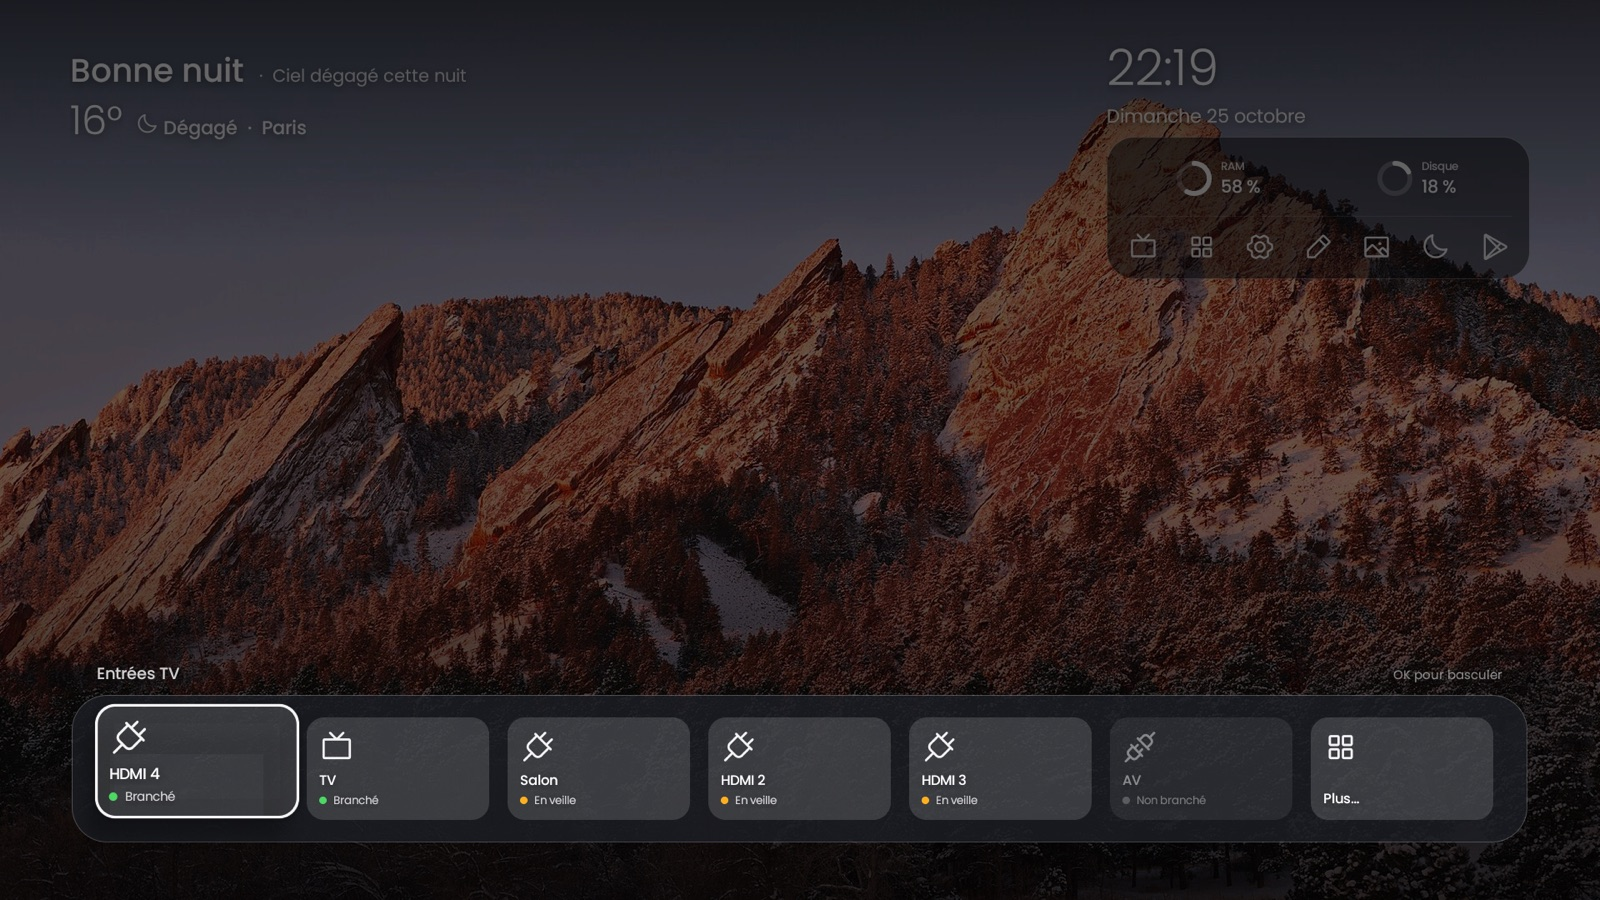
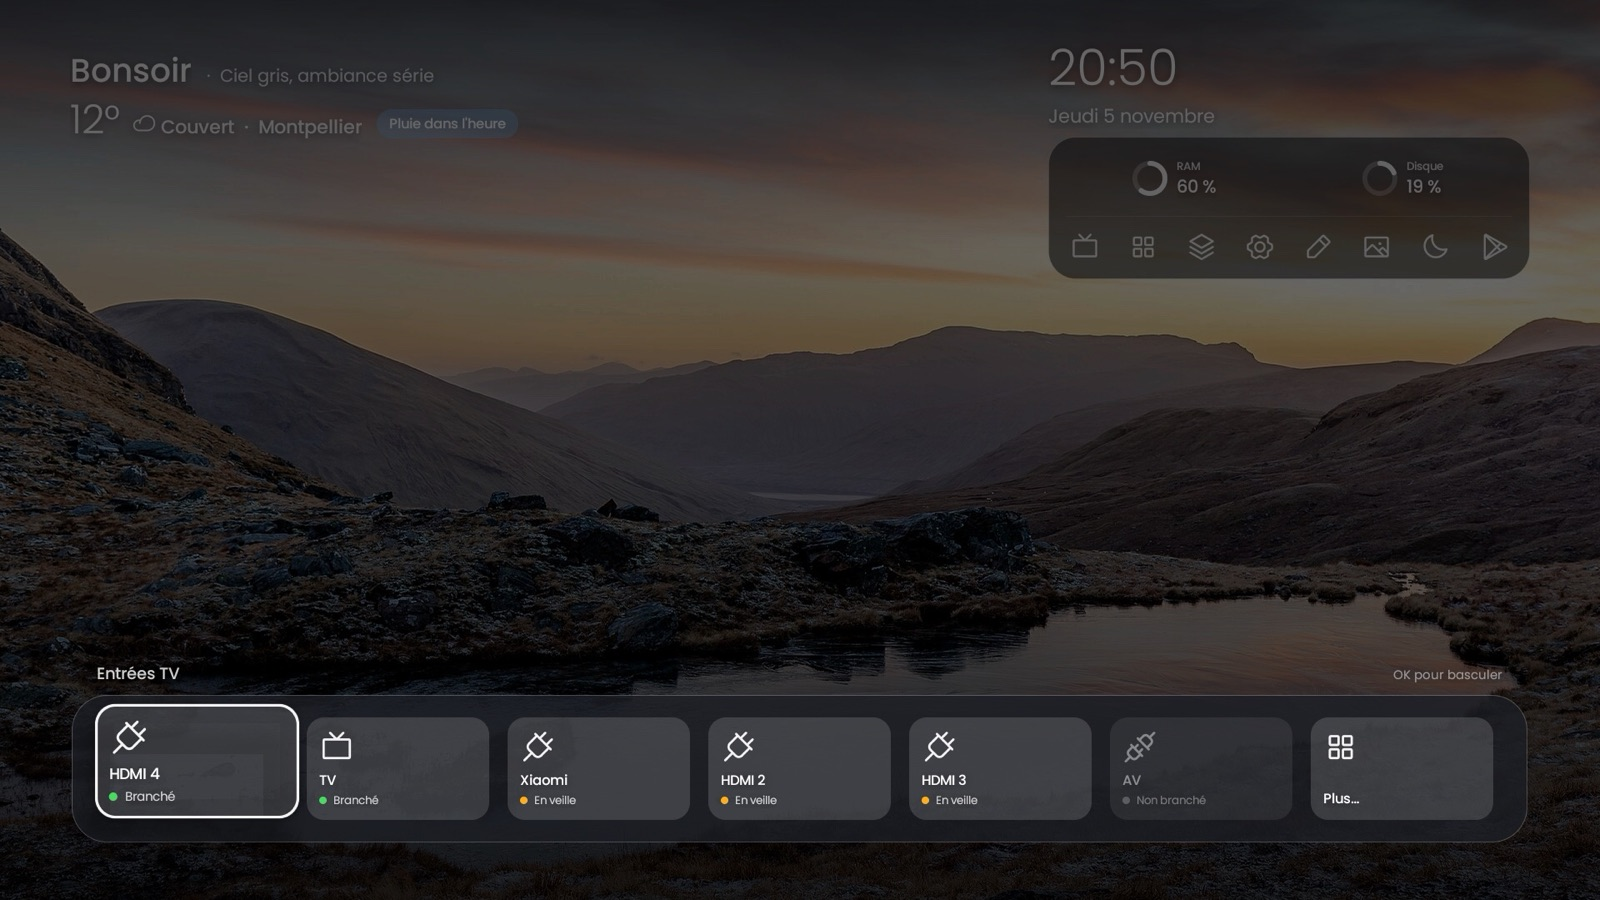
docs: galerie de captures commentées sur la page et le README

diff --git a/docs/index.html b/docs/index.html
@@ -54,8 +54,17 @@
   .etapes li::before { content: counter(e); position: absolute; left: 0; top: 0; width: 30px; height: 30px; border-radius: 50%;
     display: grid; place-items: center; background: var(--accent); color: #14202c; font-size: 14px; font-weight: 500; }
   .note { margin-top: 18px; padding: 14px 18px; border-radius: 16px; background: rgba(255, 207, 142, .12); border: 1px solid rgba(255, 207, 142, .35); font-size: 15px; color: var(--texte-doux); }
+  .intro-galerie { margin: -6px 0 18px; color: var(--texte-doux); font-size: 15px; }
+  figure { margin: 0; }
+  figure img { display: block; width: 100%; height: auto; border-radius: 16px; border: 1px solid rgba(255, 255, 255, .14); box-shadow: 0 16px 40px -18px rgba(0, 0, 0, .7); }
+  figure a { display: block; border-radius: 16px; }
+  figure a:focus-visible { outline: 3px solid var(--accent); outline-offset: 4px; }
+  figcaption { margin-top: 10px; font-size: 15px; color: var(--texte-doux); }
+  figcaption b { color: var(--texte); font-weight: 500; }
+  .vedette { margin-bottom: 22px; }
+  .galerie { display: grid; grid-template-columns: repeat(2, 1fr); gap: 22px 18px; }
   footer { position: relative; z-index: 1; text-align: center; font-size: 13px; color: var(--texte-doux); padding: 0 16px 28px; }
-  @media (max-width: 720px) { .grille { grid-template-columns: 1fr; } main { padding-top: 28px; } .entete img { width: 56px; height: 56px; } }
+  @media (max-width: 720px) { .grille, .galerie { grid-template-columns: 1fr; } main { padding-top: 28px; } .entete img { width: 56px; height: 56px; } }
   @media (prefers-reduced-motion: reduce) { .bouton { transition: none; } .bouton:hover { transform: none; } }
 </style>
 </head>
@@ -87,6 +96,49 @@
         <div class="atout"><h3>Un nouvel accueil</h3><p>Zen Home remplace l'écran d'accueil chargé de publicités par un accueil simple et rapide.</p></div>
         <div class="atout"><h3>Une box allégée</h3><p>Les programmes de publicité et de pistage sont désactivés. C'est vous qui choisissez, après un récapitulatif.</p></div>
         <div class="atout"><h3>Réversible</h3><p>« Revenir à avant Zen Home » remet la box exactement comme elle était. Plusieurs box ? Elles se configurent d'affilée.</p></div>
+      </div>
+    </section>
+
+    <section>
+      <h2>En images</h2>
+      <p class="intro-galerie">Captures prises sur une TV TCL Google TV équipée de Zen Home. Tout se pilote avec la télécommande.</p>
+      <figure class="vedette">
+        <a href="captures/accueil.jpg"><img src="captures/accueil.jpg" alt="Accueil Zen Home : grande photo de montagne, salutation, heure, météo et dock d'applis" width="1600" height="900" loading="lazy"></a>
+        <figcaption><b>L'accueil.</b> Une grande photo qui change au fil de la journée, l'heure, la météo de votre ville et vos applis préférées. Aucune publicité, aucune suggestion.</figcaption>
+      </figure>
+      <div class="galerie">
+        <figure>
+          <a href="captures/films.jpg"><img src="captures/films.jpg" alt="Rangée des films Netflix avec le résumé du film sélectionné" width="1600" height="900" loading="lazy"></a>
+          <figcaption><b>Les films du moment.</b> Une flèche vers le haut : les nouveautés Netflix, avec l'image et le résumé du film sélectionné.</figcaption>
+        </figure>
+        <figure>
+          <a href="captures/au-cinema.jpg"><img src="captures/au-cinema.jpg" alt="Onglet Au cinéma avec les affiches des films en salle" width="1600" height="900" loading="lazy"></a>
+          <figcaption><b>Au cinéma, bientôt, ma liste.</b> Quatre onglets pour savoir ce qui sort, en salle comme en streaming.</figcaption>
+        </figure>
+        <figure>
+          <a href="captures/fiche-film.jpg"><img src="captures/fiche-film.jpg" alt="Fiche d'un film avec les boutons Ouvrir Netflix, Ajouter à ma liste et Bande-annonce" width="1600" height="900" loading="lazy"></a>
+          <figcaption><b>La fiche d'un film.</b> Le résumé, la note, la bande-annonce, et un bouton pour l'ouvrir directement.</figcaption>
+        </figure>
+        <figure>
+          <a href="captures/entrees.jpg"><img src="captures/entrees.jpg" alt="Cartes des entrées de la TV : HDMI, TV, Xiaomi, AV, avec leur état" width="1600" height="900" loading="lazy"></a>
+          <figcaption><b>Les entrées de la TV.</b> Chaque prise HDMI a sa carte, avec son nom et son état : branchée, en veille ou débranchée.</figcaption>
+        </figure>
+        <figure>
+          <a href="captures/reglages.jpg"><img src="captures/reglages.jpg" alt="Menu Réglages avec Image, Son et Tous les paramètres" width="1600" height="900" loading="lazy"></a>
+          <figcaption><b>Les réglages à portée de main.</b> Sur les TV TCL, l'image et le son se règlent sans quitter l'accueil.</figcaption>
+        </figure>
+        <figure>
+          <a href="captures/minuteur.jpg"><img src="captures/minuteur.jpg" alt="Menu Mise en veille avec des durées de 15 à 240 minutes" width="1600" height="900" loading="lazy"></a>
+          <figcaption><b>Un minuteur de mise en veille.</b> Pour s'endormir devant un film : la TV s'éteint toute seule, avec un avertissement une minute avant.</figcaption>
+        </figure>
+        <figure>
+          <a href="captures/themes.jpg"><img src="captures/themes.jpg" alt="Menu Thème : Verre, Nuit, Sable, Forêt, Auto" width="1600" height="900" loading="lazy"></a>
+          <figcaption><b>Cinq thèmes.</b> Verre, Nuit, Sable, Forêt, ou Auto, qui prend la teinte de la photo.</figcaption>
+        </figure>
+        <figure>
+          <a href="captures/ambiance.jpg"><img src="captures/ambiance.jpg" alt="Mode ambiance : photo de forêt et de montagnes en plein écran avec l'heure et la météo" width="1600" height="900" loading="lazy"></a>
+          <figcaption><b>Le mode ambiance.</b> Après trois minutes sans toucher la télécommande, l'écran devient un tableau : photo, heure et météo.</figcaption>
+        </figure>
       </div>
     </section>
 

diff --git a/README.md b/README.md
@@ -1,13 +1,28 @@
 # tcl-zenhome
 
-**Une TV TCL Google TV plus légère, plus calme et sans pub, pilotée depuis votre Mac, sans root.**
+**Une TV ou une box Android TV / Google TV plus légère, plus calme et sans pub, configurée depuis votre Mac, sans root.**
+
+**[Télécharger l'appli Mac](https://github.com/Tetrax/tcl-zenhome/releases/latest/download/Zen-Home-Mac.dmg)** · [Présentation](https://tetrax.github.io/tcl-zenhome/) · [Mode d'emploi](https://tetrax.github.io/tcl-zenhome/mode-d-emploi.html)
 
 Ce projet fait deux choses :
 
-1. **Il allège la TV** : il désactive les applis TCL/Google inutiles (pub, promos, télémétrie, services qui tournent en fond).
+1. **Il allège la TV** : il désactive les applis inutiles du fabricant et de Google (pub, promos, télémétrie, services qui tournent en fond). Tout est réversible.
 2. **Il remplace l'écran d'accueil** par **Zen Home**, un accueil minimaliste : grande photo, heure, météo, films du moment et vos applis.
 
-![Accueil Zen Home](docs/captures/accueil.jpg)
+Vérifié sur Xiaomi Mi Box 4 et TV TCL Google TV, et compatible avec la plupart des autres appareils Android TV et Google TV (Android 9 ou plus récent).
+
+![Accueil Zen Home : grande photo, heure, météo et dock d'applis](docs/captures/accueil.jpg)
+
+## En images
+
+Captures prises sur une TV TCL Google TV équipée de Zen Home.
+
+| | |
+|---|---|
+| ![Films Netflix](docs/captures/films.jpg) **Les films du moment.** Une flèche vers le haut : les nouveautés Netflix, avec l'image et le résumé du film sélectionné. | ![Au cinéma](docs/captures/au-cinema.jpg) **Au cinéma, bientôt, ma liste.** Quatre onglets pour savoir ce qui sort, en salle comme en streaming. |
+| ![Fiche d'un film](docs/captures/fiche-film.jpg) **La fiche d'un film.** Le résumé, la note, la bande-annonce, et un bouton pour l'ouvrir directement. | ![Entrées de la TV](docs/captures/entrees.jpg) **Les entrées de la TV.** Chaque prise HDMI a sa carte, avec son nom et son état. |
+| ![Réglages](docs/captures/reglages.jpg) **Les réglages à portée de main.** Sur les TV TCL, l'image et le son se règlent sans quitter l'accueil. | ![Minuteur de veille](docs/captures/minuteur.jpg) **Un minuteur de mise en veille.** La TV s'éteint toute seule, avec un avertissement une minute avant. |
+| ![Thèmes](docs/captures/themes.jpg) **Cinq thèmes.** Verre, Nuit, Sable, Forêt, ou Auto, qui prend la teinte de la photo. | ![Mode ambiance](docs/captures/ambiance.jpg) **Le mode ambiance.** Après trois minutes sans toucher la télécommande : photo, heure et météo en plein écran. |
 
 ## Ce que ça fait
 
@@ -25,9 +40,9 @@ Ce projet fait deux choses :
 - **Photos perso** : vos images à la place de celles fournies.
 - **Léger** : environ 35 à 40 Mo de mémoire, contre environ 340 Mo pour l'accueil Google TV.
 
-| Films | Entrées | Veille | Thème Nuit |
-|---|---|---|---|
-| ![Films](docs/captures/films.jpg) | ![Entrées](docs/captures/entrees.jpg) | ![Écran de veille](docs/captures/veille.jpg) | ![Thème Nuit](docs/captures/theme-nuit.jpg) |
+| Économiseur d'écran | Thème Nuit |
+|---|---|
+| ![Écran de veille](docs/captures/veille.jpg) | ![Thème Nuit](docs/captures/theme-nuit.jpg) |
 
 *Photos de fond : Wikimedia Commons, voir [launcher/CREDITS.md](launcher/CREDITS.md). Affiches et images de films : TMDB.*
 
